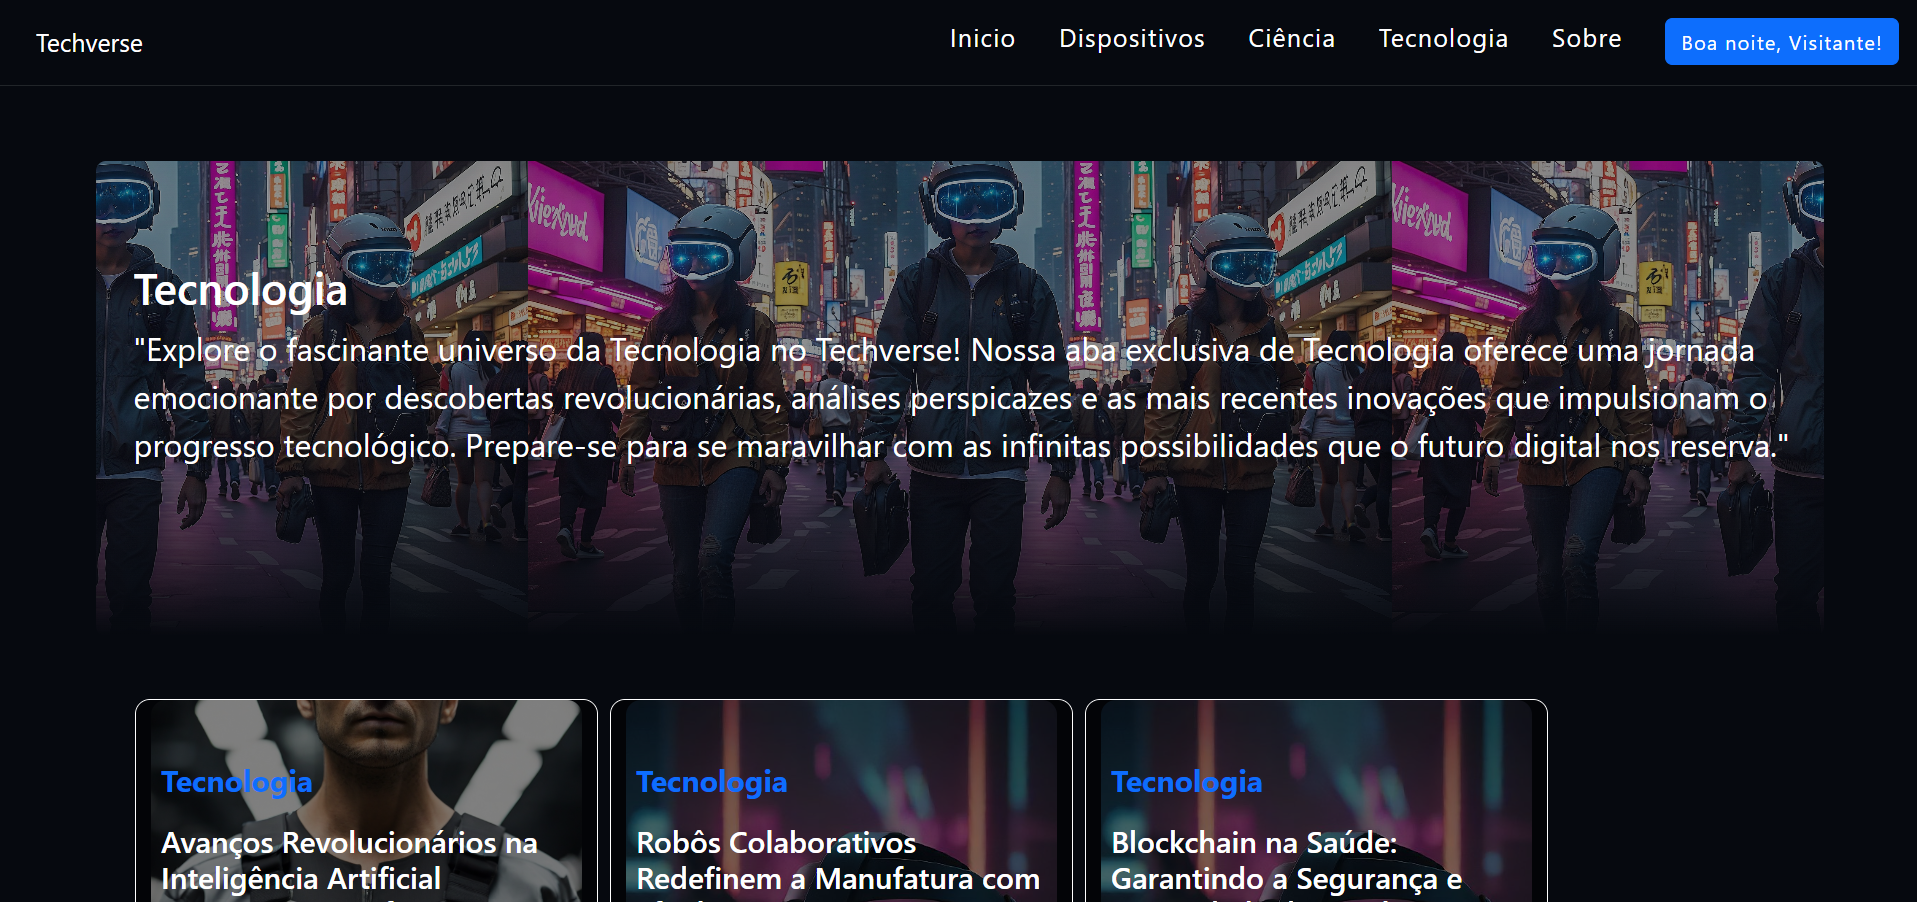
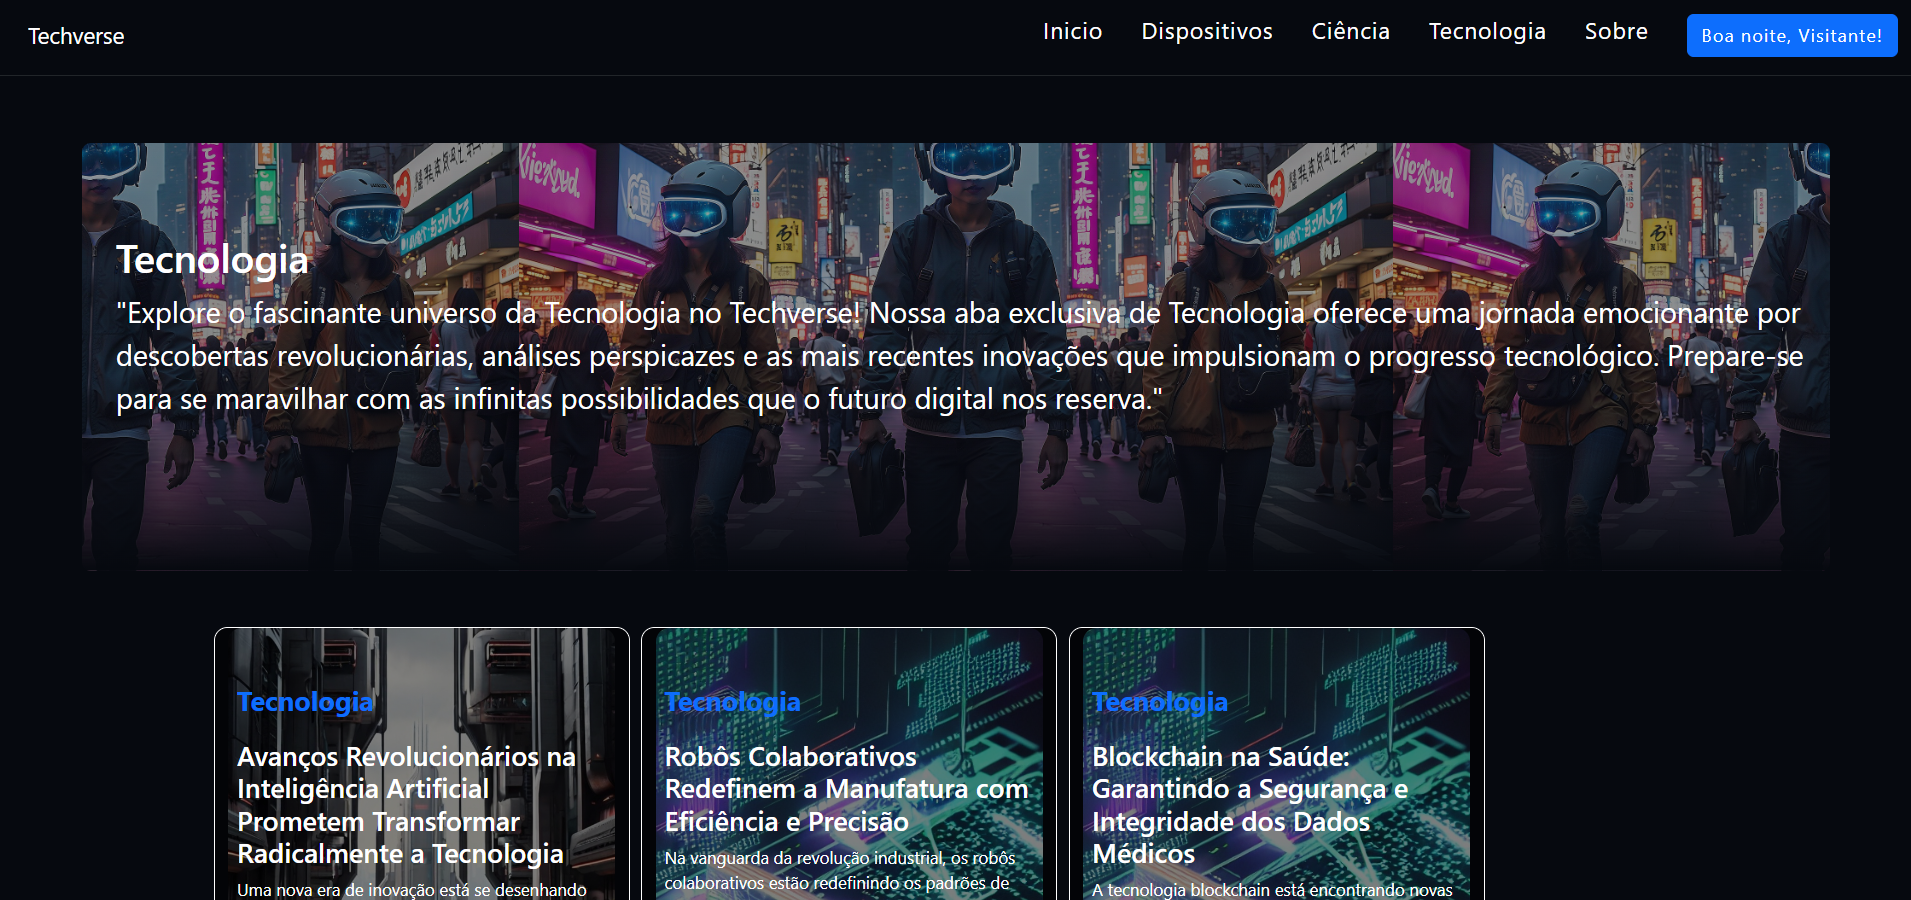
more changes

diff --git a/src/components/pages/Tecnologia/Tecnologia.jsx b/src/components/pages/Tecnologia/Tecnologia.jsx
@@ -1,8 +1,11 @@
 import React from "react";
-import "./tecnologia.css";
 import { Link } from "react-router-dom";
-import post1 from "../../../assets/images/image-deviceheat-leonard-ai.jpg";
-import post4 from "../../../assets/images/image-vr-leonard-ai.jpg";
+
+import img1 from "../../../assets/images/pic1.jpg";
+import img2 from "../../../assets/images/2.jpg";
+
+import noticiasData from "./noticias.json";
+import "./tecnologia.css";
 
 const Tecnologia = () => {
   return (
@@ -19,82 +22,20 @@ const Tecnologia = () => {
       </div>
 
       <div className="container device-container">
-      <div className="row">
-          <div className="col-3 col-sm-6 device-square text-overlay">
-            <Link to="../noticias/7">
-              <img src={post1} alt="dispositivo temperatura" />
-              <div className="overlay-text">
-                <h4 className="new-h4">Tecnologia</h4>
-                <h4>
-                  Avanços Revolucionários na Inteligência Artificial Prometem Transformar Radicalmente a Tecnologia
-                </h4>
-                <p>
-                  Uma nova era de inovação está se desenhando no horizonte da tecnologia, 
-                  impulsionada por avanços revolucionários na inteligência 
-                  artificial (IA). 
-                </p>
-                <p className="lermore">Ler Mais</p>
-              </div>
-            </Link>
-          </div>
-
-          <div className="col-3 col-sm-6 device-square text-overlay">
-            <Link to="../noticias/4">
-              <img src={post4} alt="dispositivo oculos vr" />
-              <div className="overlay-text">
-                <h4 className="new-h4">Tecnologia</h4>
-                <h4>
-                Robôs Colaborativos Redefinem a Manufatura com Eficiência e Precisão                </h4>
-                <p>
-                Na vanguarda da revolução industrial, os robôs colaborativos estão redefinindo os padrões de eficiência e precisão na manufatura.
-                </p>
-                <p className="lermore">Ler Mais</p>
-              </div>
-            </Link>
-          </div>
-
-          <div className="col-3 col-sm-6 device-square text-overlay">
-            <Link to="../noticias/4">
-              <img src={post4} alt="dispositivo oculos vr" />
-              <div className="overlay-text">
-                <h4 className="new-h4">Tecnologia</h4>
-                <h4>
-                Blockchain na Saúde: Garantindo a Segurança e Integridade dos Dados Médicos                </h4>
-                <p>
-                A tecnologia blockchain está encontrando novas aplicações no setor de saúde, proporcionando uma solução inovadora para a segurança e integridade dos dados médicos.
-                </p>
-                <p className="lermore">Ler Mais</p>
-              </div>
-            </Link>
-          </div>
-          <div className="col-3 col-sm-6 device-square text-overlay">
-            <Link to="../noticias/4">
-              <img src={post4} alt="dispositivo oculos vr" />
-              <div className="overlay-text">
-                <h4 className="new-h4">Tecnologia</h4>
-                <h4>
-                Realidade Aumentada Chega aos Espaços de Trabalho, Transformando a Experiência Profissional                </h4>
-                <p>
-                A realidade aumentada (RA) está deixando de ser uma tecnologia exclusiva do entretenimento e invadindo os espaços de trabalho, transformando a experiência profissional.
-                </p>
-                <p className="lermore">Ler Mais</p>
-              </div>
-            </Link>
-          </div>
-          <div className="col-3 col-sm-6 device-square text-overlay">
-            <Link to="../noticias/4">
-              <img src={post4} alt="dispositivo oculos vr" />
-              <div className="overlay-text">
-                <h4 className="new-h4">Tecnologia</h4>
-                <h4>
-                Computação Quântica: Avanços Promissores Rumo à Supremacia Quântica                </h4>
-                <p>
-                Os avanços na computação quântica estão acelerando, sinalizando passos significativos em direção à tão esperada supremacia quântica.
-                </p>
-                <p className="lermore">Ler Mais</p>
-              </div>
-            </Link>
-          </div>
+        <div className="row">
+          {noticiasData.map((noticia) => (
+            <div key={noticia.id} className="col-3 col-sm-6 device-square text-overlay">
+              <Link to={`../noticias/${noticia.id}`}>
+                <img src={noticia.id % 2 == 0 ? img1 : img2} alt={`dispositivo ${noticia.id}`} />
+                <div className="overlay-text">
+                  <h4 className="new-h4">Tecnologia</h4>
+                  <h4>{noticia.titulo}</h4>
+                  <p>{noticia.descricao}</p>
+                  <p className="lermore">Ler Mais</p>
+                </div>
+              </Link>
+            </div>
+          ))}
         </div>
       </div>
     </div>
